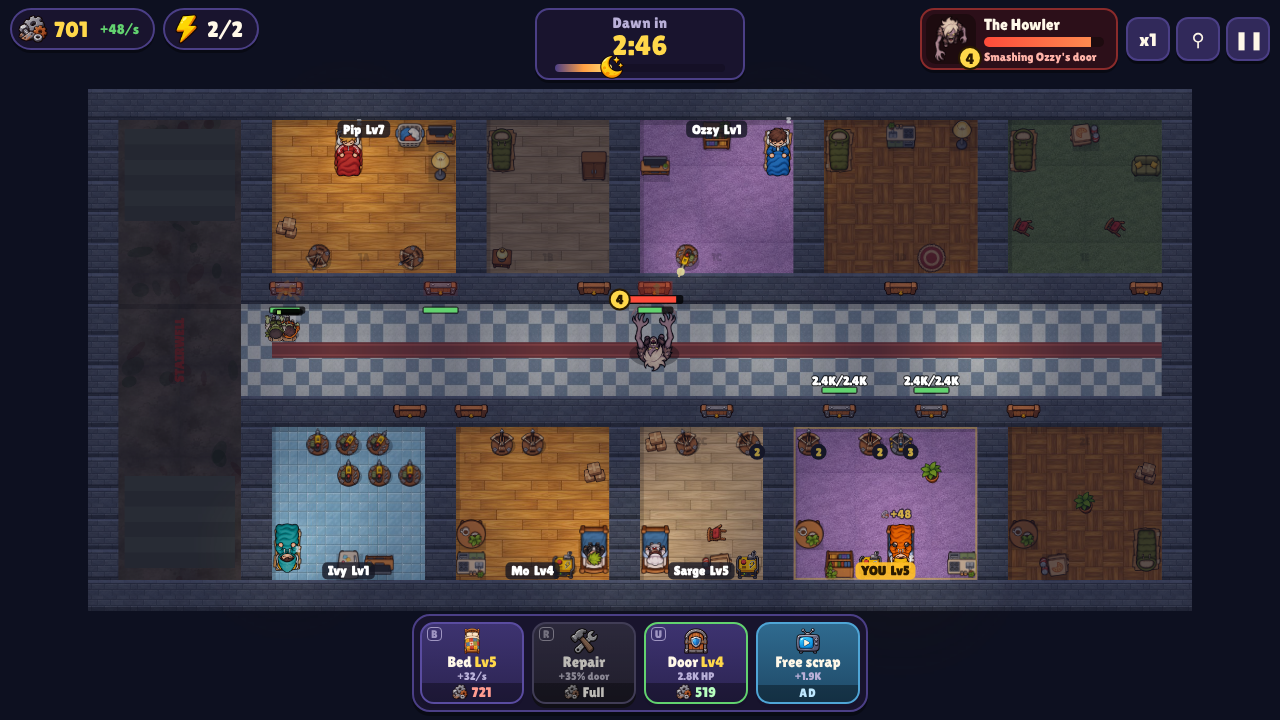
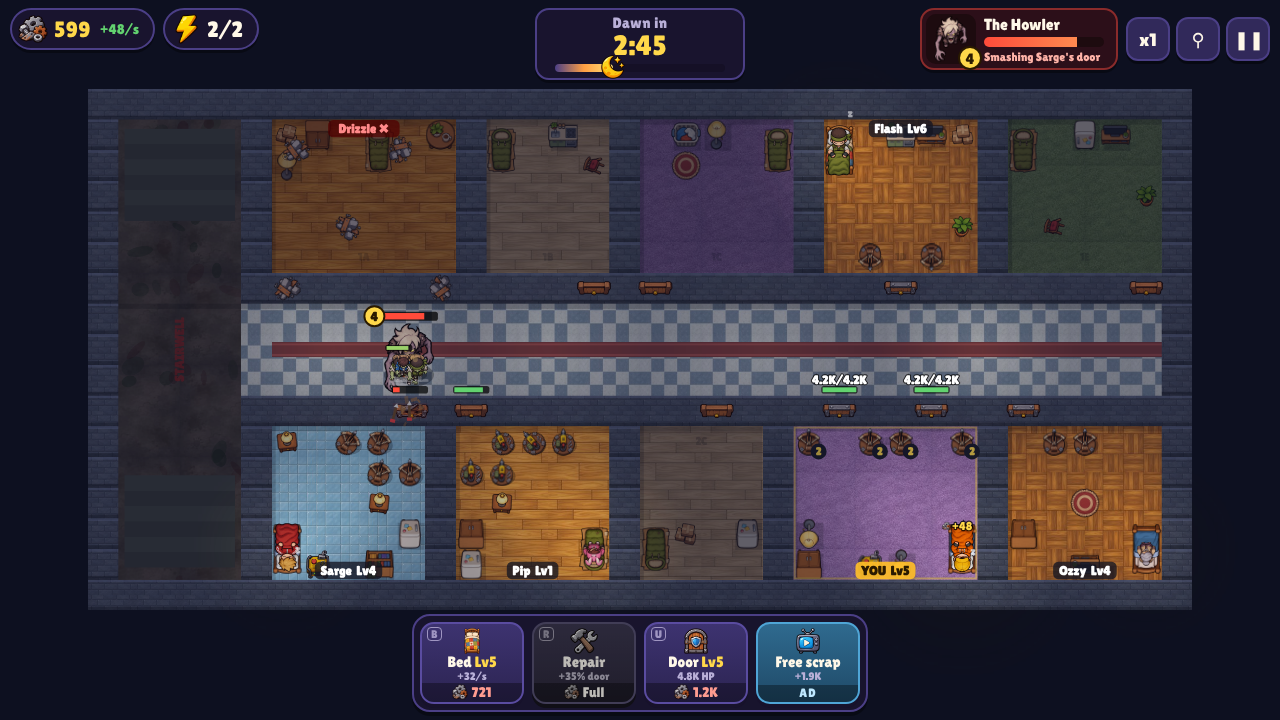
Last Door Standing: room framing fits room+door+corridor in the safe area; framing test for every room/viewport; refresh 06_late
Claude-Session: https://claude.ai/code/session_01TqeH9d9vCnB1ZoH3xYAz9d

diff --git a/zombie-night-shelter/js/render.js b/zombie-night-shelter/js/render.js
@@ -68,10 +68,16 @@ export class Renderer {
     this.clampCam();
   }
   focus(wx, wy, z) { this.cam.tx = wx; this.cam.ty = wy; this.cam.tz = z; }
+  // Box that must stay fully visible when framing a room: the whole room, its door wall and the corridor in front.
+  roomBox(room) {
+    const x0 = room.x - 0.35, x1 = room.x + room.w + 0.35;
+    return room.top ? { x0, x1, y0: room.y - 0.35, y1: 10.15 } : { x0, x1, y0: 6.85, y1: room.y + room.h + 0.35 };
+  }
   focusRoom(room) {
-    const z = Math.max(this.cam.fit, Math.min(Math.max(this.cam.fit * 2.4, 30 / TS), 66 / TS, (this.vh - this.insets.top - this.insets.bottom) / (TS * 10.5)));
-    const d = room.doors[0];
-    this.focus((room.x + room.w / 2) * TS, ((room.top ? room.y + 2.5 : room.y + 2.5) + (d.fy)) / 2 * TS, z);
+    const b = this.roomBox(room), M = 10;
+    const availW = this.vw - 2 * M, availH = this.vh - this.insets.top - this.insets.bottom - 2 * M;
+    const z = Math.max(this.cam.fit, Math.min(66 / TS, availW / ((b.x1 - b.x0) * TS), availH / ((b.y1 - b.y0) * TS)));
+    this.focus((b.x0 + b.x1) / 2 * TS, (b.y0 + b.y1) / 2 * TS, z);
   }
   clampCam() {
     const g = this.g; if (!g) return;
